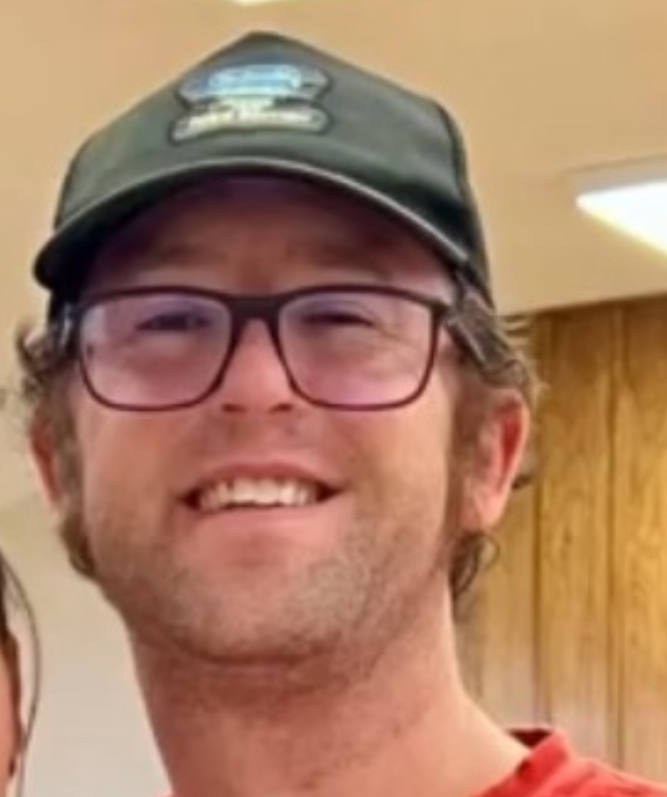
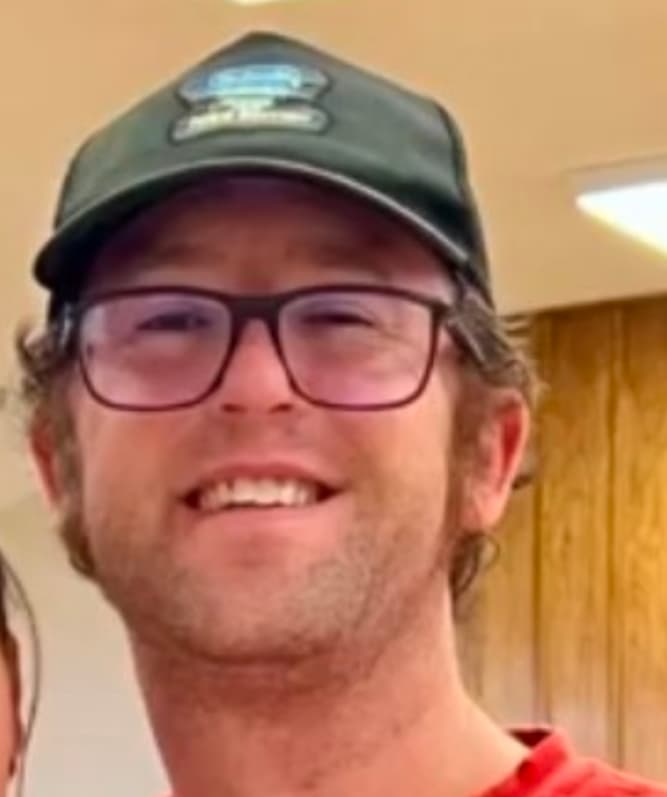
changed scottsmith.jpg to profile.jpg to match project requirements.

diff --git a/index.html b/index.html
@@ -15,7 +15,7 @@
     </header>
     <main>
         <h1>Scott Smith | WDD 130</h1>
-        <img src="./images/scottsmith.jpg" alt="Scott Smith" width="200">
+        <img src="./images/profile.jpg" alt="Scott Smith" width="200">
         <p>Hi I'm Scott! I am 42 years old and I live in Southern California with my awesome wife and four awesome kids. I am a Quality Assurance Lead at a place called <a href="https://www.magnopus.com">Magnopus</a>. 
             I love frisbee, music, video games, hiking, drawing, playing guitar, playing with my kids, driving down the coast at sunset and lots of other stuff! I served my mission in the Georgia, Atlanta and then the Georgia Atlanta North Missions from 2002 to 2004. I love Georgia and I miss it.
             I had cancer when I was 14 and I lived with an internal prosthetic until January 2024 when I finally cut off my leg and starting using a external prosthetic. My life has improved immensely ever since!</p>
